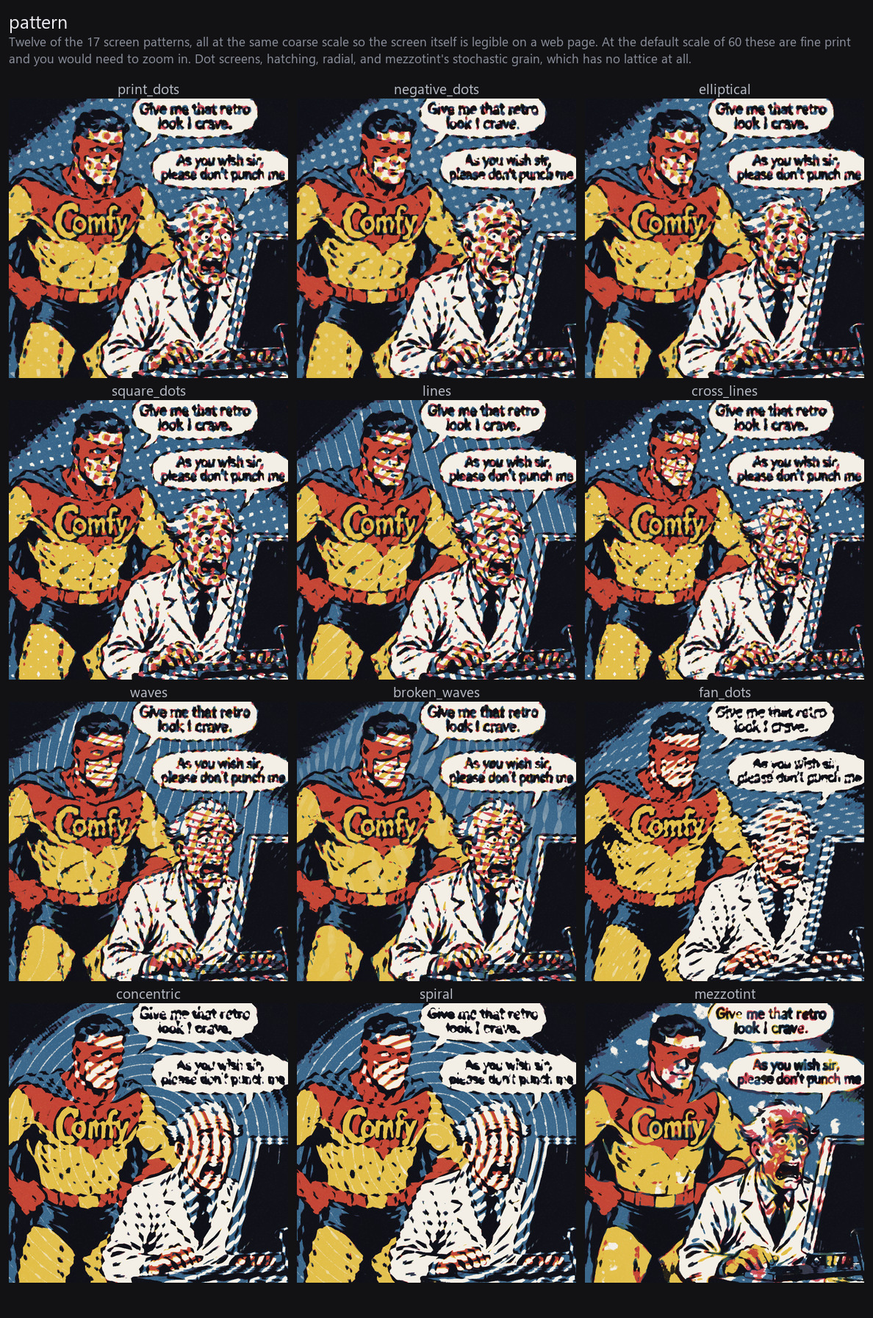
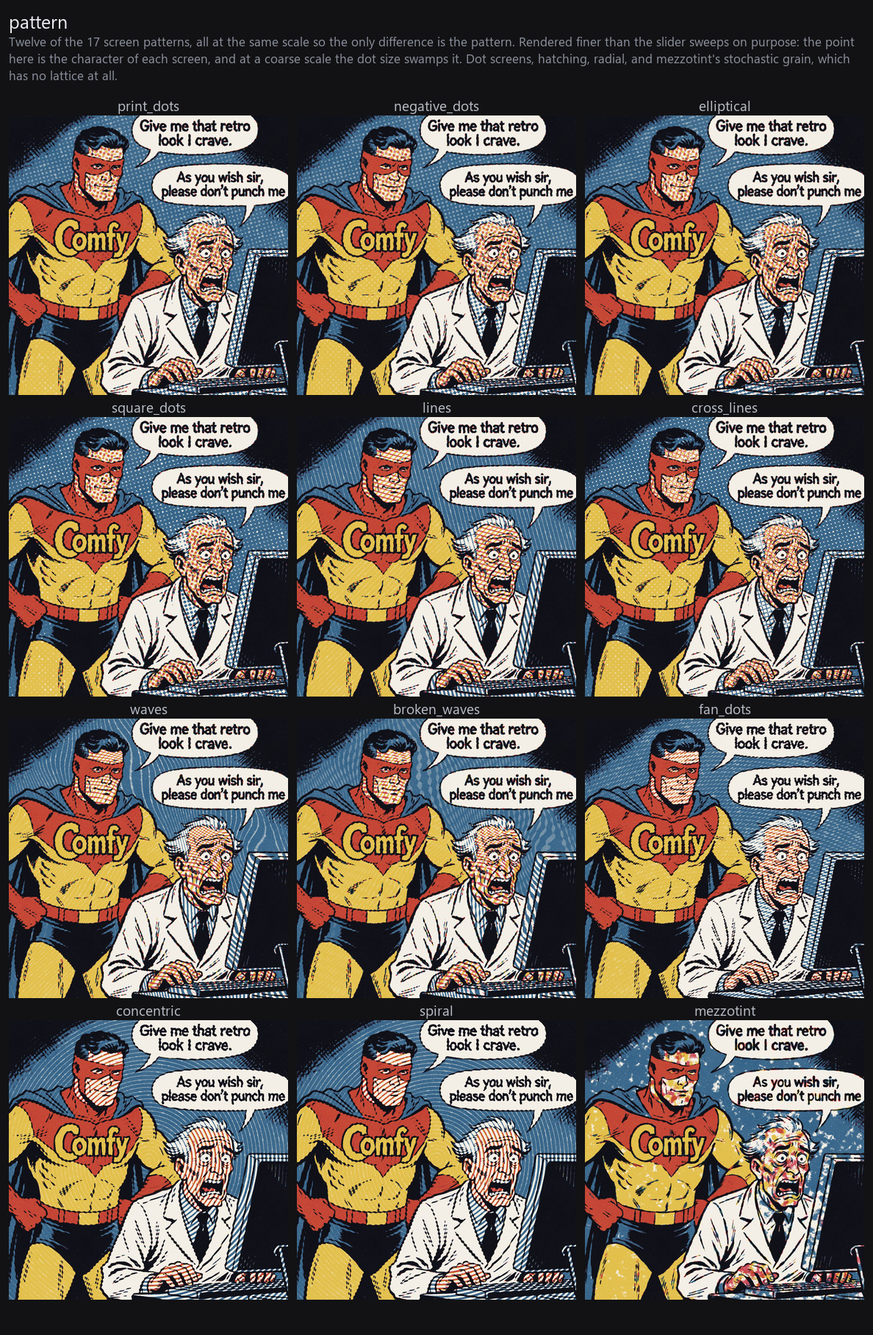
Give the pattern grid its own finer screen
Raising the shared screen scale to 320 was right for the slider sweeps but
wrong here. A sweep only has to show the slider moving, so a coarse screen
suits it. The pattern grid has to show what each screen actually looks like,
and at 320 the dots grew large enough to swamp the picture: the faces and
lettering went, and the finer screens stopped being distinguishable from one
another.

The grid now renders at its own PATTERN_SCALE of 120, the value it had before.
It keeps the larger source and panel size from the last change, so it carries
more fine detail than the original version did rather than just matching it.

diff --git a/docs/generate_docs_images.py b/docs/generate_docs_images.py
@@ -175,6 +175,13 @@ def save(im, out_dir, stem, ext):
 # or two and the whole point of the node becomes invisible.
 SHOW_SCALE = 320
 
+# The pattern grid is the exception. A slider sweep only has to show the slider
+# moving, so a coarse screen suits it, but the pattern grid has to show what
+# each screen actually looks like: at 320 the dots grow so large that the shape
+# of the pattern swamps the picture and the finer screens stop being
+# distinguishable from one another.
+PATTERN_SCALE = 120
+
 # A dozen of the 37 presets, chosen to span the families rather than to be a
 # catalogue: newsprint, the three comic eras, poster stock, and the odd ones.
 PRESETS_SHOWN = [
@@ -297,9 +304,9 @@ def main():
                        args.width, cols=3), args.out, "presets", args.ext)
 
     if want("patterns"):
-        panels = [(n, run(pattern=n, scale=SHOW_SCALE)) for n in PATTERNS_SHOWN]
+        panels = [(n, run(pattern=n, scale=PATTERN_SCALE)) for n in PATTERNS_SHOWN]
         save(make_grid(panels, "pattern",
-                       "Twelve of the 17 screen patterns, all at the same coarse scale so the screen itself is legible on a web page. At the default scale of 60 these are fine print and you would need to zoom in. Dot screens, hatching, radial, and mezzotint's stochastic grain, which has no lattice at all.",
+                       "Twelve of the 17 screen patterns, all at the same scale so the only difference is the pattern. Rendered finer than the slider sweeps on purpose: the point here is the character of each screen, and at a coarse scale the dot size swamps it. Dot screens, hatching, radial, and mezzotint's stochastic grain, which has no lattice at all.",
                        args.width, cols=3), args.out, "patterns", args.ext)
 
     for s in SWEEPS:
